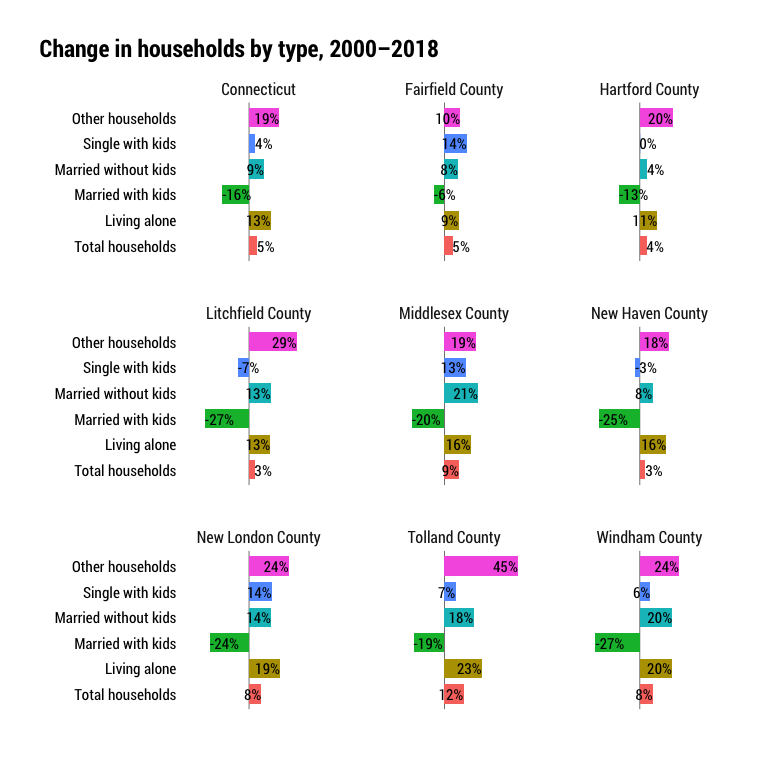
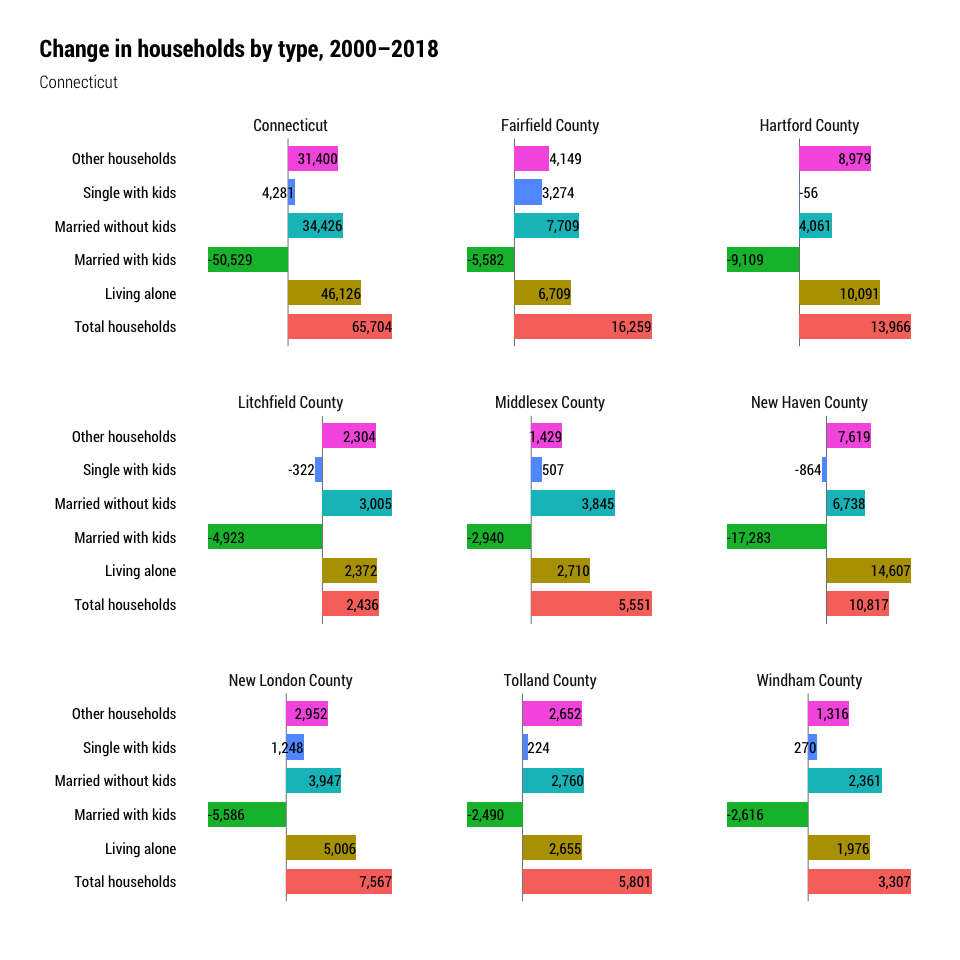
change hh by type to count rather than share

diff --git a/notebooks/hh_by_type.md b/notebooks/hh_by_type.md
@@ -2041,18 +2041,19 @@ household_type_change %>%
     select(-level, -change_from_prev_data_year) %>% 
     pivot_wider(id_cols = c("name", "group"), names_from = year, values_from = value) %>% 
     group_by(name, group) %>% 
-    mutate(diff = (`2018` - `2000`) / `2000`) %>% 
+    mutate(diff = (`2018` - `2000`)) %>%
+    #mutate(diff = (`2018` - `2000`) / `2000`) %>% 
     select(name, group, diff) %>% 
     ggplot(aes(diff, group)) +
     geom_vline(xintercept = 0, size = .25, alpha = .8) +
     geom_col(aes(fill = group), width = .75, position = "identity") +
-    geom_text(aes(label = scales::percent(diff, accuracy = 1)), hjust = "inward", position = "identity", family = "Roboto Condensed", size = 4) +
-    scale_x_continuous(limits = c(-.3, .5),
-                                         expand = expansion(mult = c(.15,.05))) +
-    facet_wrap(facets = "name") +
+    geom_text(aes(label = scales::comma(diff, accuracy = 1)), hjust = "inward", position = "identity", family = "Roboto Condensed", size = 4) +
+    scale_x_continuous(expand = expansion(mult = c(.15,.05))) +
+    facet_wrap(facets = "name", scales = "free_x") +
     hrbrthemes::theme_ipsum_rc() +
     guides(fill = guide_legend(title = "")) +
     labs(title = "Change in households by type, 2000–2018",
+             subtitle = "Connecticut",
              x = "", y = "") +
     theme(plot.title.position = "plot",
                 axis.text.y = element_text(colour = "black"),
